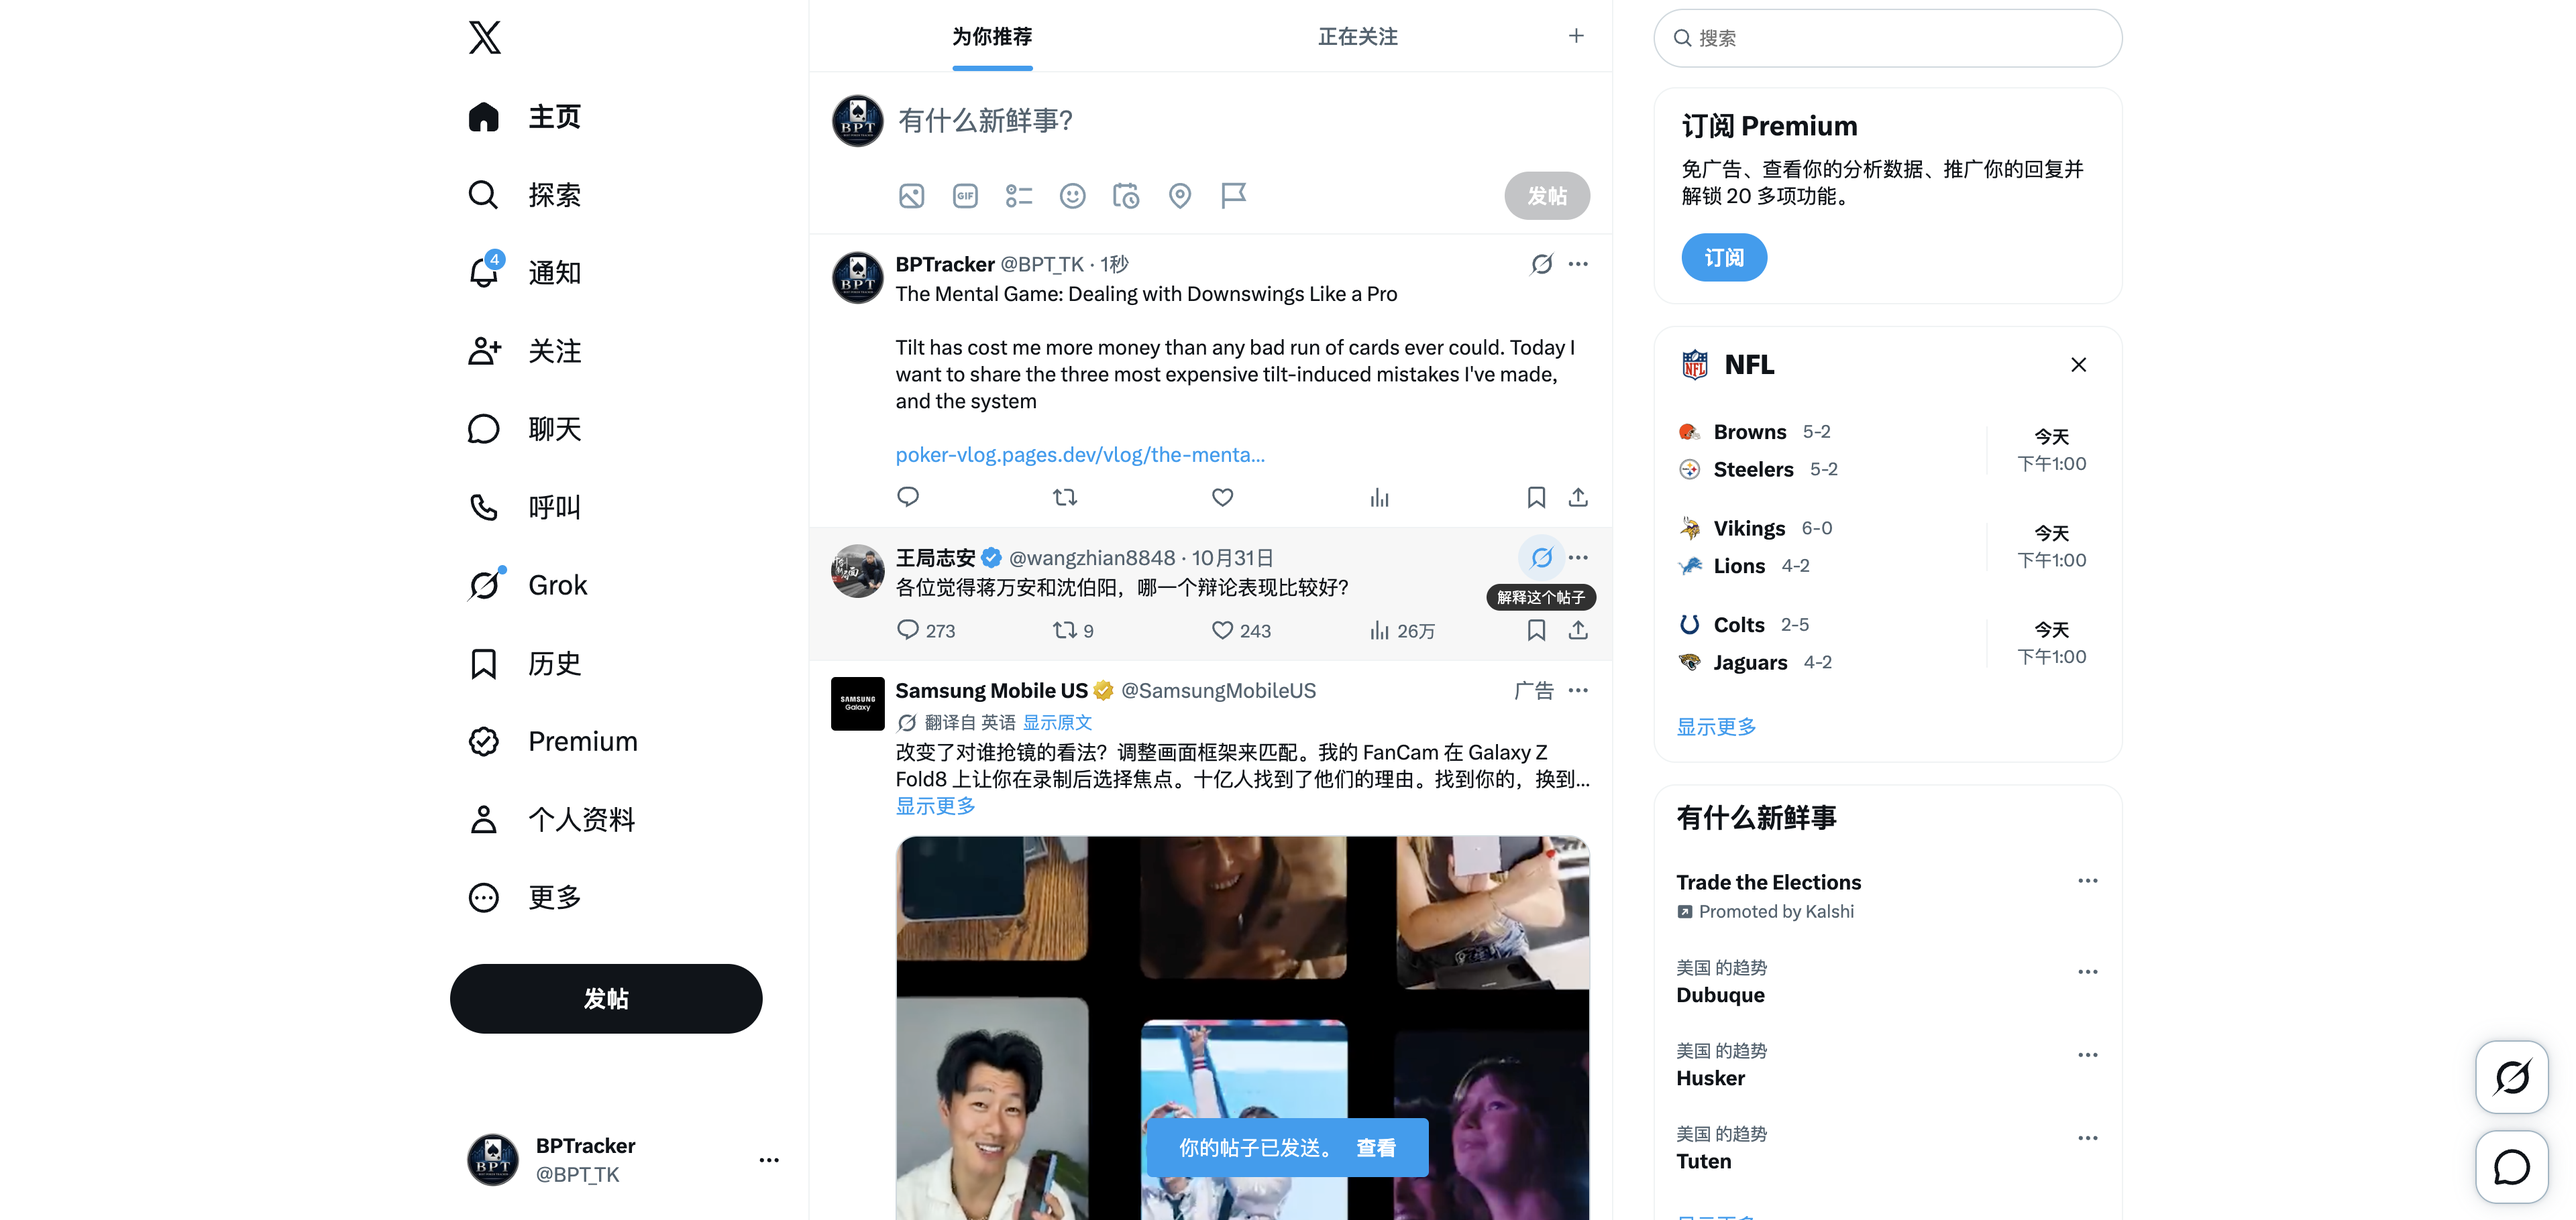
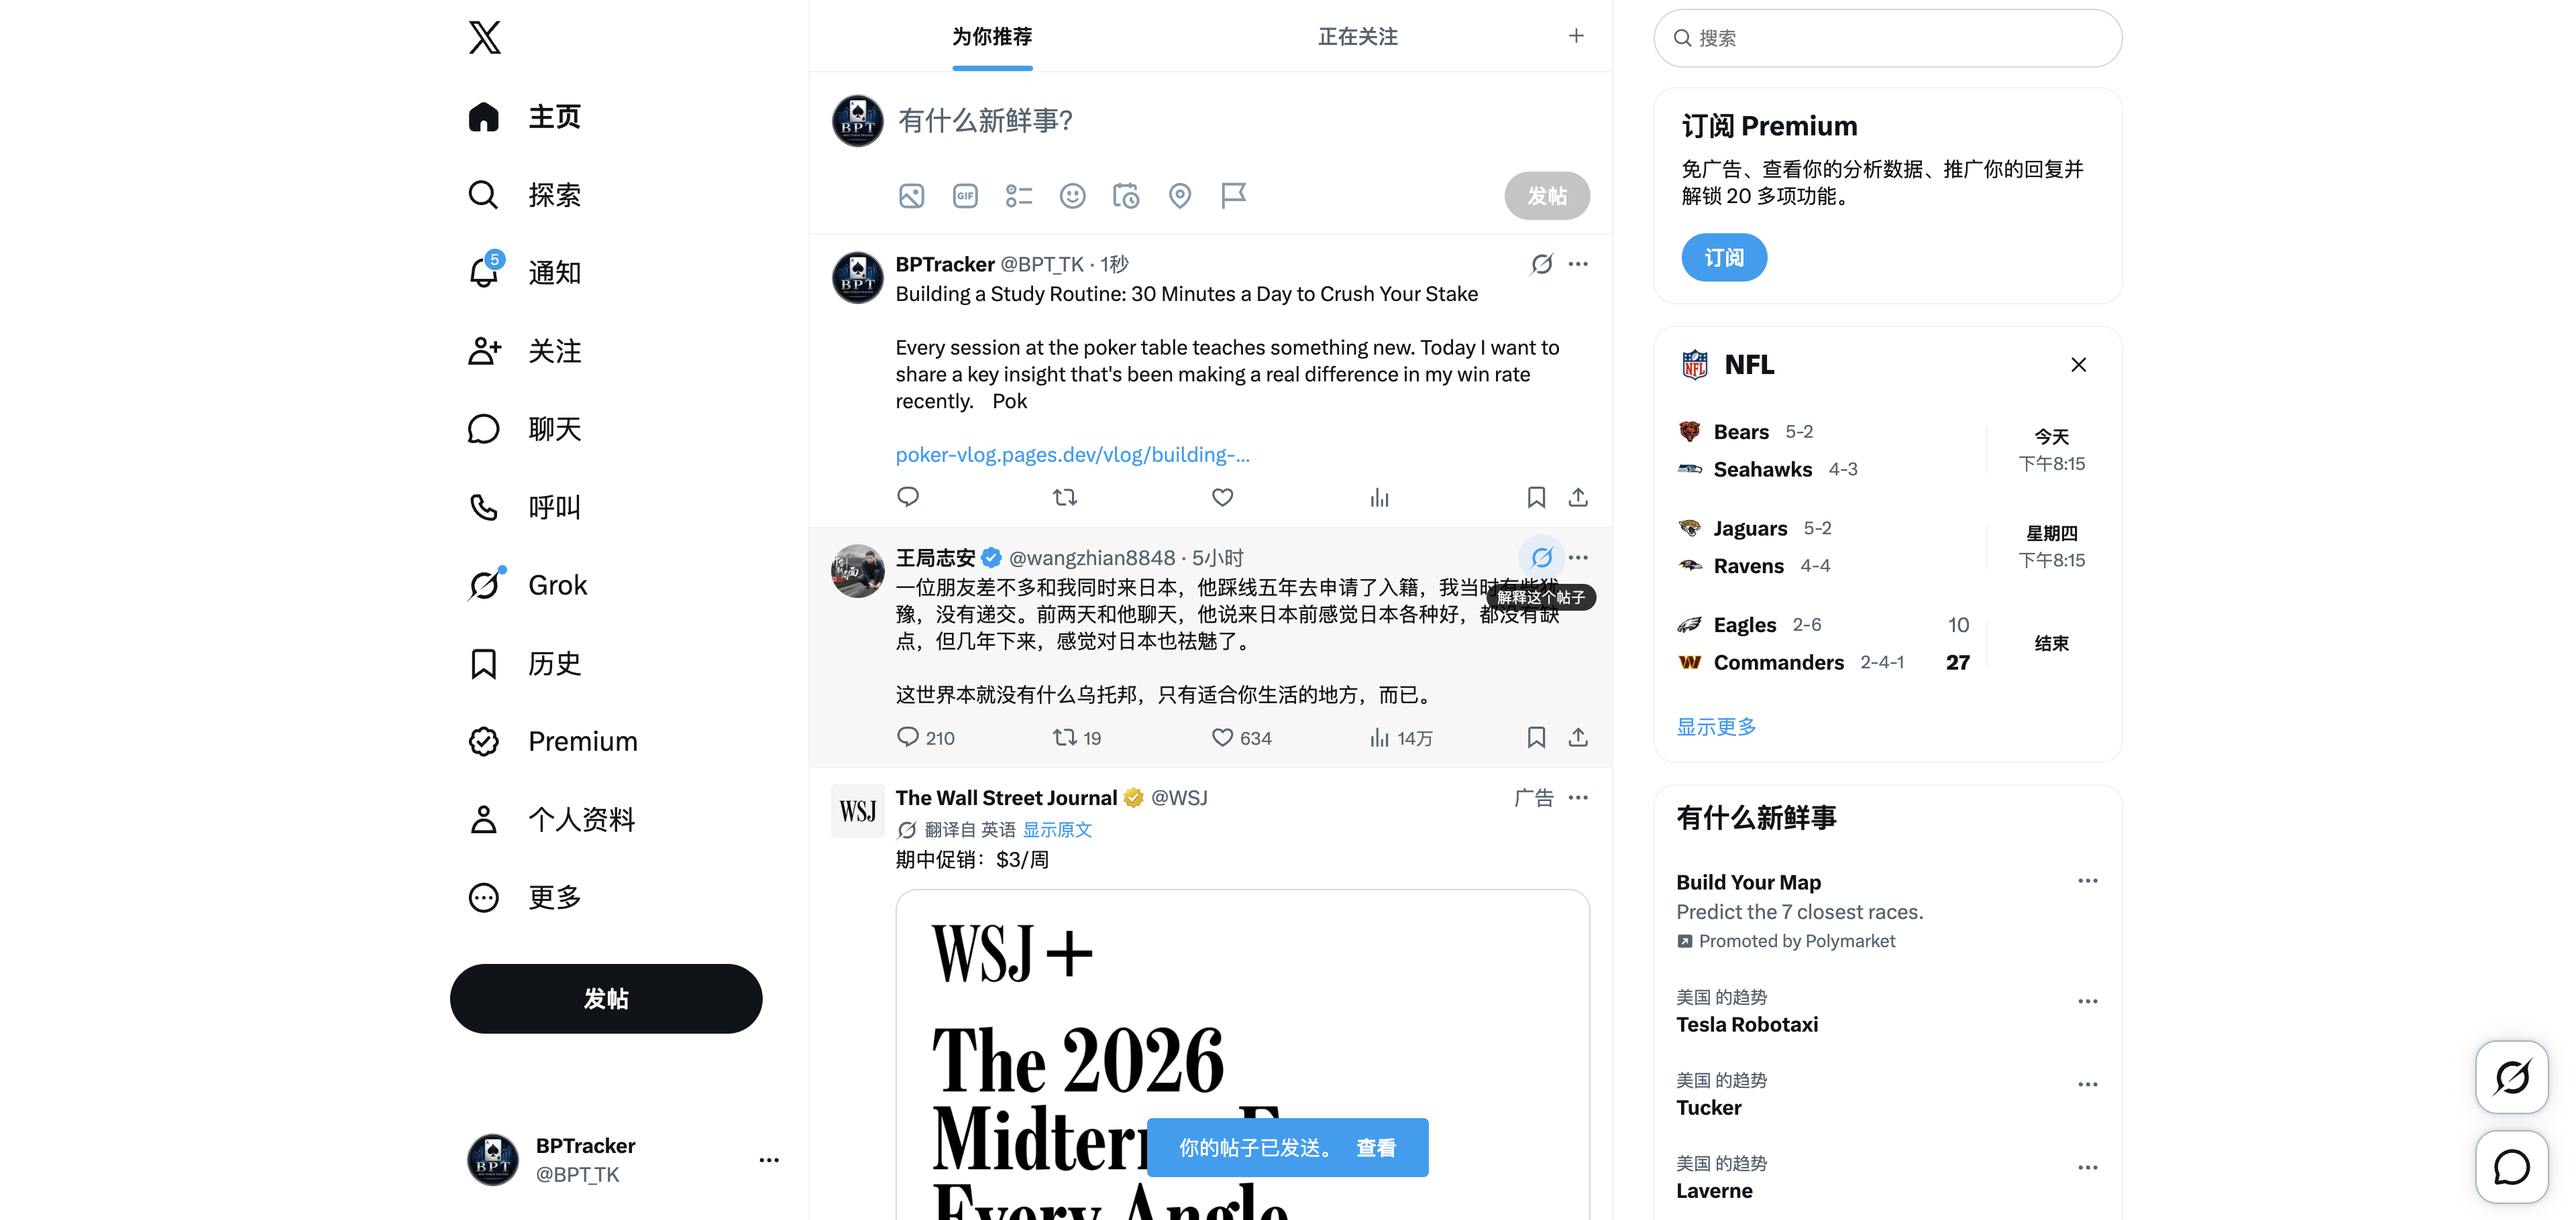
Fix README cover images: use repo-relative paths to avoid jsDelivr lazy-index 404 and camo negative cache

diff --git a/scripts/generate-vlog.js b/scripts/generate-vlog.js
@@ -21,15 +21,16 @@ const TOPIC_FILE = '/tmp/poker-vlog-topic.txt';
 
 // README 自动更新相关
 const README_PATH = path.resolve(__dirname, '..', 'README.md');
-// README 封面图地址前缀：
-// 1) 相对路径 images/xxx.png：GitHub 会重写为 /raw/main/... 并 302 到
-//    raw.githubusercontent.com，该域名及 camo.githubusercontent.com 境内常被污染/阻断。
-// 2) bpttangke.github.io：Pages 直出本身没问题，但该域名在境内经常整域不可达，
-//    且新图必须等 Actions 部署完成（1~3 分钟）后才 200，README 抢先生效时是裂图。
-// 结论：README 统一走 jsDelivr（GitHub 仓库 CDN，境内可直连、提交后即可用，
-// @main 分支路径会随最新提交自动更新）。
+// README 封面图地址前缀（2026-11-02 改为仓库内相对路径）：
+// 1) jsDelivr（旧方案）：@main 惰性索引，新封面首抓必 404，且 404 会被 jsDelivr
+//    与 GitHub camo 双重负缓存，README 长时间裂图——这是"GitHub 上图片不显示"的主因。
+// 2) bpttangke.github.io（Pages 绝对地址）：新图要等 Actions 部署完成（1~3 分钟）才 200，
+//    README 抢先生效时是裂图；且该域名境内常整域不可达。
+// 结论：改用相对路径 images/xxx.png。图片与 README 在同一次提交里，GitHub camo 回源
+// raw.githubusercontent.com（境外）即可取到，无第三方索引延迟，无负缓存窗口。
+// 用户浏览器实际加载的是 camo.githubusercontent.com，不直接暴露 raw 域名。
 // 注意：站点页面内的封面不依赖此常量，由 frontmatter.image + BASE_URL 渲染。
-const README_IMAGE_BASE = 'https://cdn.jsdelivr.net/gh/BPTTangKe/poker-vlog@main/images';
+const README_IMAGE_BASE = 'images';
 const README_MAX_ENTRIES = 7;
 const README_SECTION = '## Latest Vlogs';
 
@@ -487,8 +488,7 @@ function updateReadme({ slug, title, dateStr }) {
     return;
   }
 
-  // 封面写 GitHub Pages 绝对地址：GitHub 仓库页渲染 README 时不会再去 302 到
-  // raw.githubusercontent.com（境内被污染会裂图），同时也不受 jsDelivr @main 索引延迟影响。
+  // 封面写仓库内相对路径：与 README 同一次提交，camo 立即可回源，无 CDN 索引延迟。
   const entry = `### ${dateStr} — ${title}\n\n![${title}](${README_IMAGE_BASE}/${slug}.png)\n\n[Read full article](src/content/vlog/${slug}.md)\n\n`;
 
   // 幂等：已存在当日条目则跳过

diff --git a/README.md b/README.md
@@ -5,43 +5,43 @@
 ## Latest Vlogs
 ### 2026-11-02 — Building a Study Routine: 30 Minutes a Day to Crush Your Stake
 
-![Building a Study Routine: 30 Minutes a Day to Crush Your Stake](https://cdn.jsdelivr.net/gh/BPTTangKe/poker-vlog@main/images/building-a-study-routine-30-minutes-a-day-to-crush-your-stak-2026-11-02.png)
+![Building a Study Routine: 30 Minutes a Day to Crush Your Stake](images/building-a-study-routine-30-minutes-a-day-to-crush-your-stak-2026-11-02.png)
 
 [Read full article](src/content/vlog/building-a-study-routine-30-minutes-a-day-to-crush-your-stak-2026-11-02.md)
 
 ### 2026-11-01 — The Mental Game: Dealing with Downswings Like a Pro
 
-![The Mental Game: Dealing with Downswings Like a Pro](https://cdn.jsdelivr.net/gh/BPTTangKe/poker-vlog@main/images/the-mental-game-dealing-with-downswings-like-a-pro-2026-11-01.png)
+![The Mental Game: Dealing with Downswings Like a Pro](images/the-mental-game-dealing-with-downswings-like-a-pro-2026-11-01.png)
 
 [Read full article](src/content/vlog/the-mental-game-dealing-with-downswings-like-a-pro-2026-11-01.md)
 
 ### 2026-10-31 — Exploiting Weak Players: How to Maximize Value Against Calling Stations
 
-![Exploiting Weak Players: How to Maximize Value Against Calling Stations](https://cdn.jsdelivr.net/gh/BPTTangKe/poker-vlog@main/images/exploiting-weak-players-how-to-maximize-value-against-callin-2026-10-31.png)
+![Exploiting Weak Players: How to Maximize Value Against Calling Stations](images/exploiting-weak-players-how-to-maximize-value-against-callin-2026-10-31.png)
 
 [Read full article](src/content/vlog/exploiting-weak-players-how-to-maximize-value-against-callin-2026-10-31.md)
 
 ### 2026-10-30 — Reading Tells in Live Poker: Eye Movements and Betting Patterns
 
-![Reading Tells in Live Poker: Eye Movements and Betting Patterns](https://cdn.jsdelivr.net/gh/BPTTangKe/poker-vlog@main/images/reading-tells-in-live-poker-eye-movements-and-betting-patter-2026-10-30.png)
+![Reading Tells in Live Poker: Eye Movements and Betting Patterns](images/reading-tells-in-live-poker-eye-movements-and-betting-patter-2026-10-30.png)
 
 [Read full article](src/content/vlog/reading-tells-in-live-poker-eye-movements-and-betting-patter-2026-10-30.md)
 
 ### 2026-10-29 — Check-Raise Bluffing: Board Textures That Favor the Defender
 
-![Check-Raise Bluffing: Board Textures That Favor the Defender](https://cdn.jsdelivr.net/gh/BPTTangKe/poker-vlog@main/images/check-raise-bluffing-board-textures-that-favor-the-defender-2026-10-29.png)
+![Check-Raise Bluffing: Board Textures That Favor the Defender](images/check-raise-bluffing-board-textures-that-favor-the-defender-2026-10-29.png)
 
 [Read full article](src/content/vlog/check-raise-bluffing-board-textures-that-favor-the-defender-2026-10-29.md)
 
 ### 2026-10-28 — Hand Review: The Biggest Pot I Ever Lost (and What I Learned)
 
-![Hand Review: The Biggest Pot I Ever Lost (and What I Learned)](https://cdn.jsdelivr.net/gh/BPTTangKe/poker-vlog@main/images/hand-review-the-biggest-pot-i-ever-lost-and-what-i-learned-2026-10-28.png)
+![Hand Review: The Biggest Pot I Ever Lost (and What I Learned)](images/hand-review-the-biggest-pot-i-ever-lost-and-what-i-learned-2026-10-28.png)
 
 [Read full article](src/content/vlog/hand-review-the-biggest-pot-i-ever-lost-and-what-i-learned-2026-10-28.md)
 
 ### 2026-10-27 — GTO vs Exploitative Play: Finding the Right Balance
 
-![GTO vs Exploitative Play: Finding the Right Balance](https://cdn.jsdelivr.net/gh/BPTTangKe/poker-vlog@main/images/gto-vs-exploitative-play-finding-the-right-balance-2026-10-27.png)
+![GTO vs Exploitative Play: Finding the Right Balance](images/gto-vs-exploitative-play-finding-the-right-balance-2026-10-27.png)
 
 [Read full article](src/content/vlog/gto-vs-exploitative-play-finding-the-right-balance-2026-10-27.md)
 
